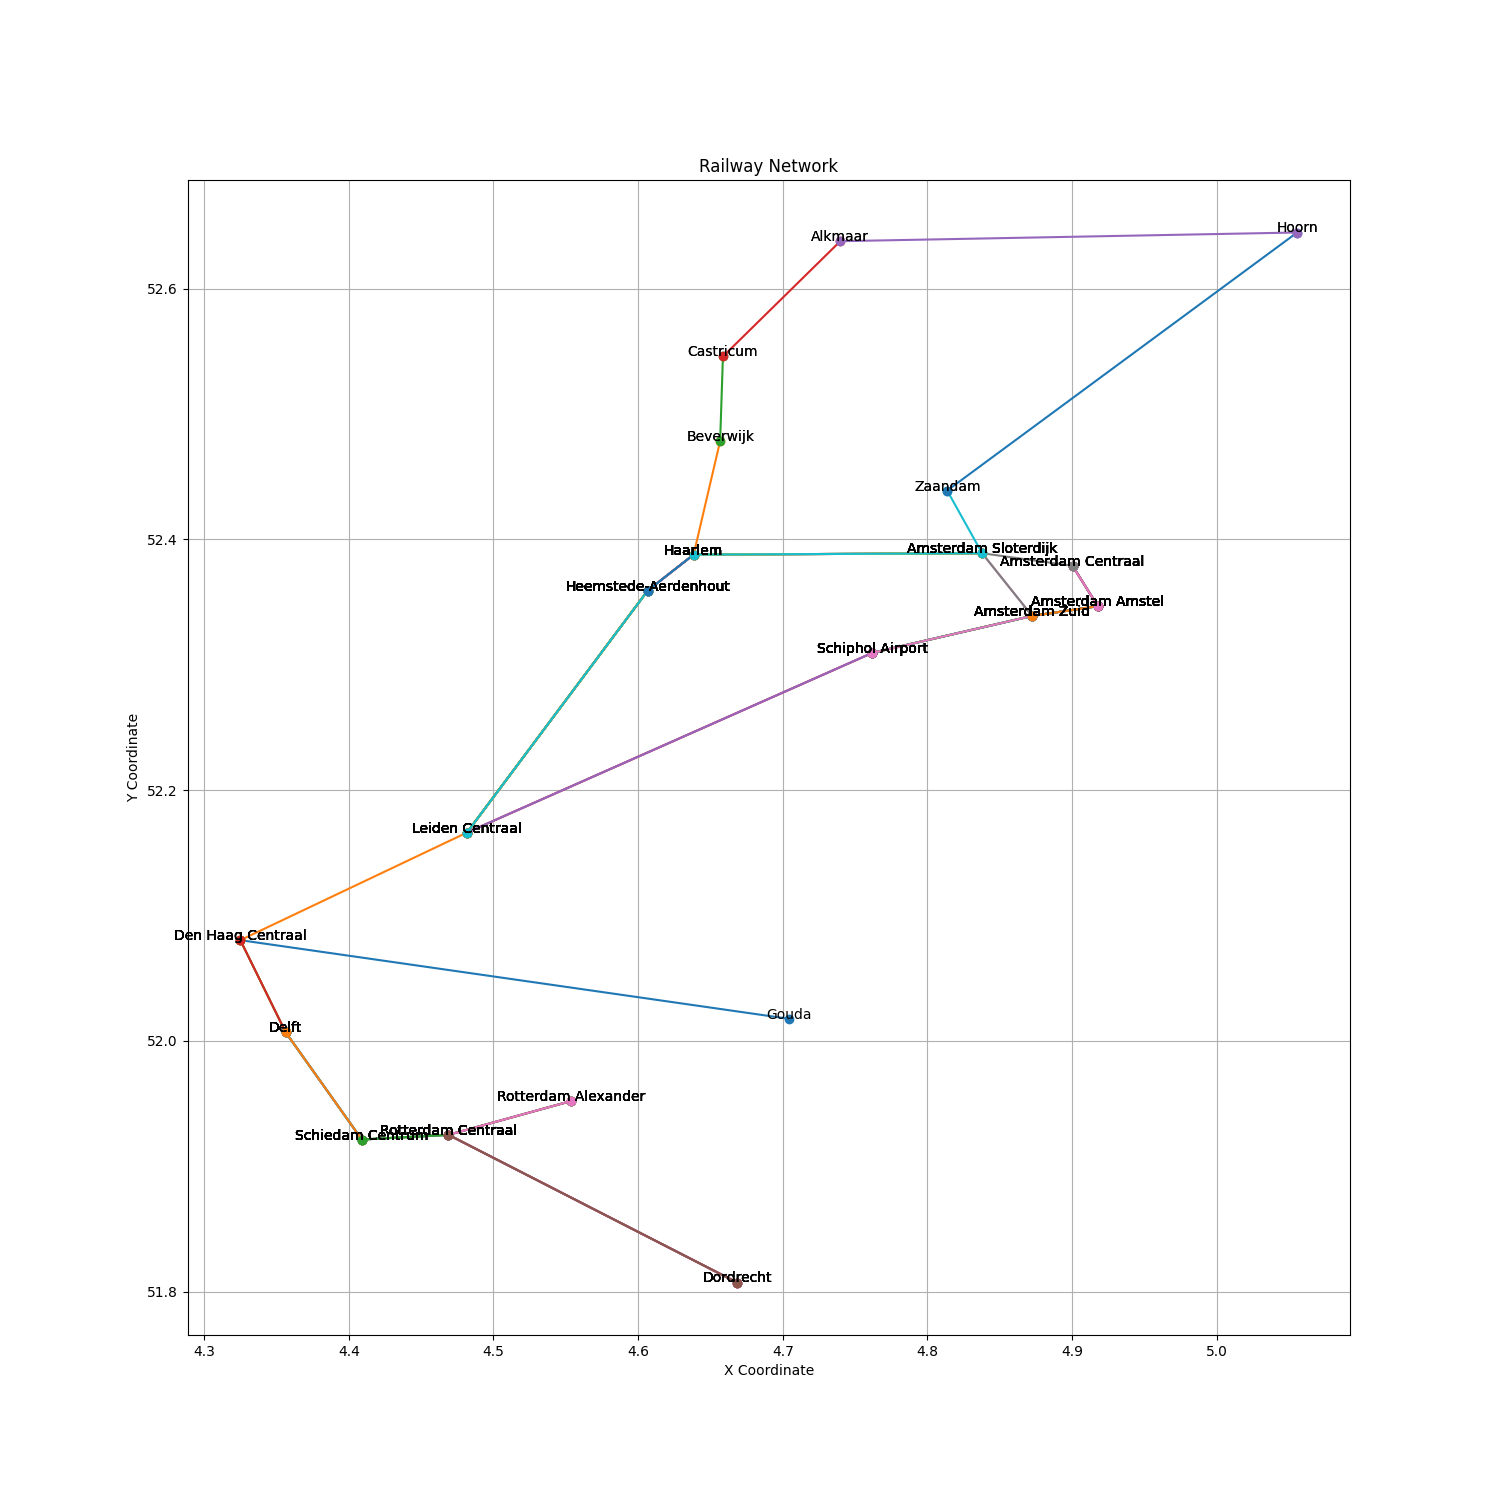
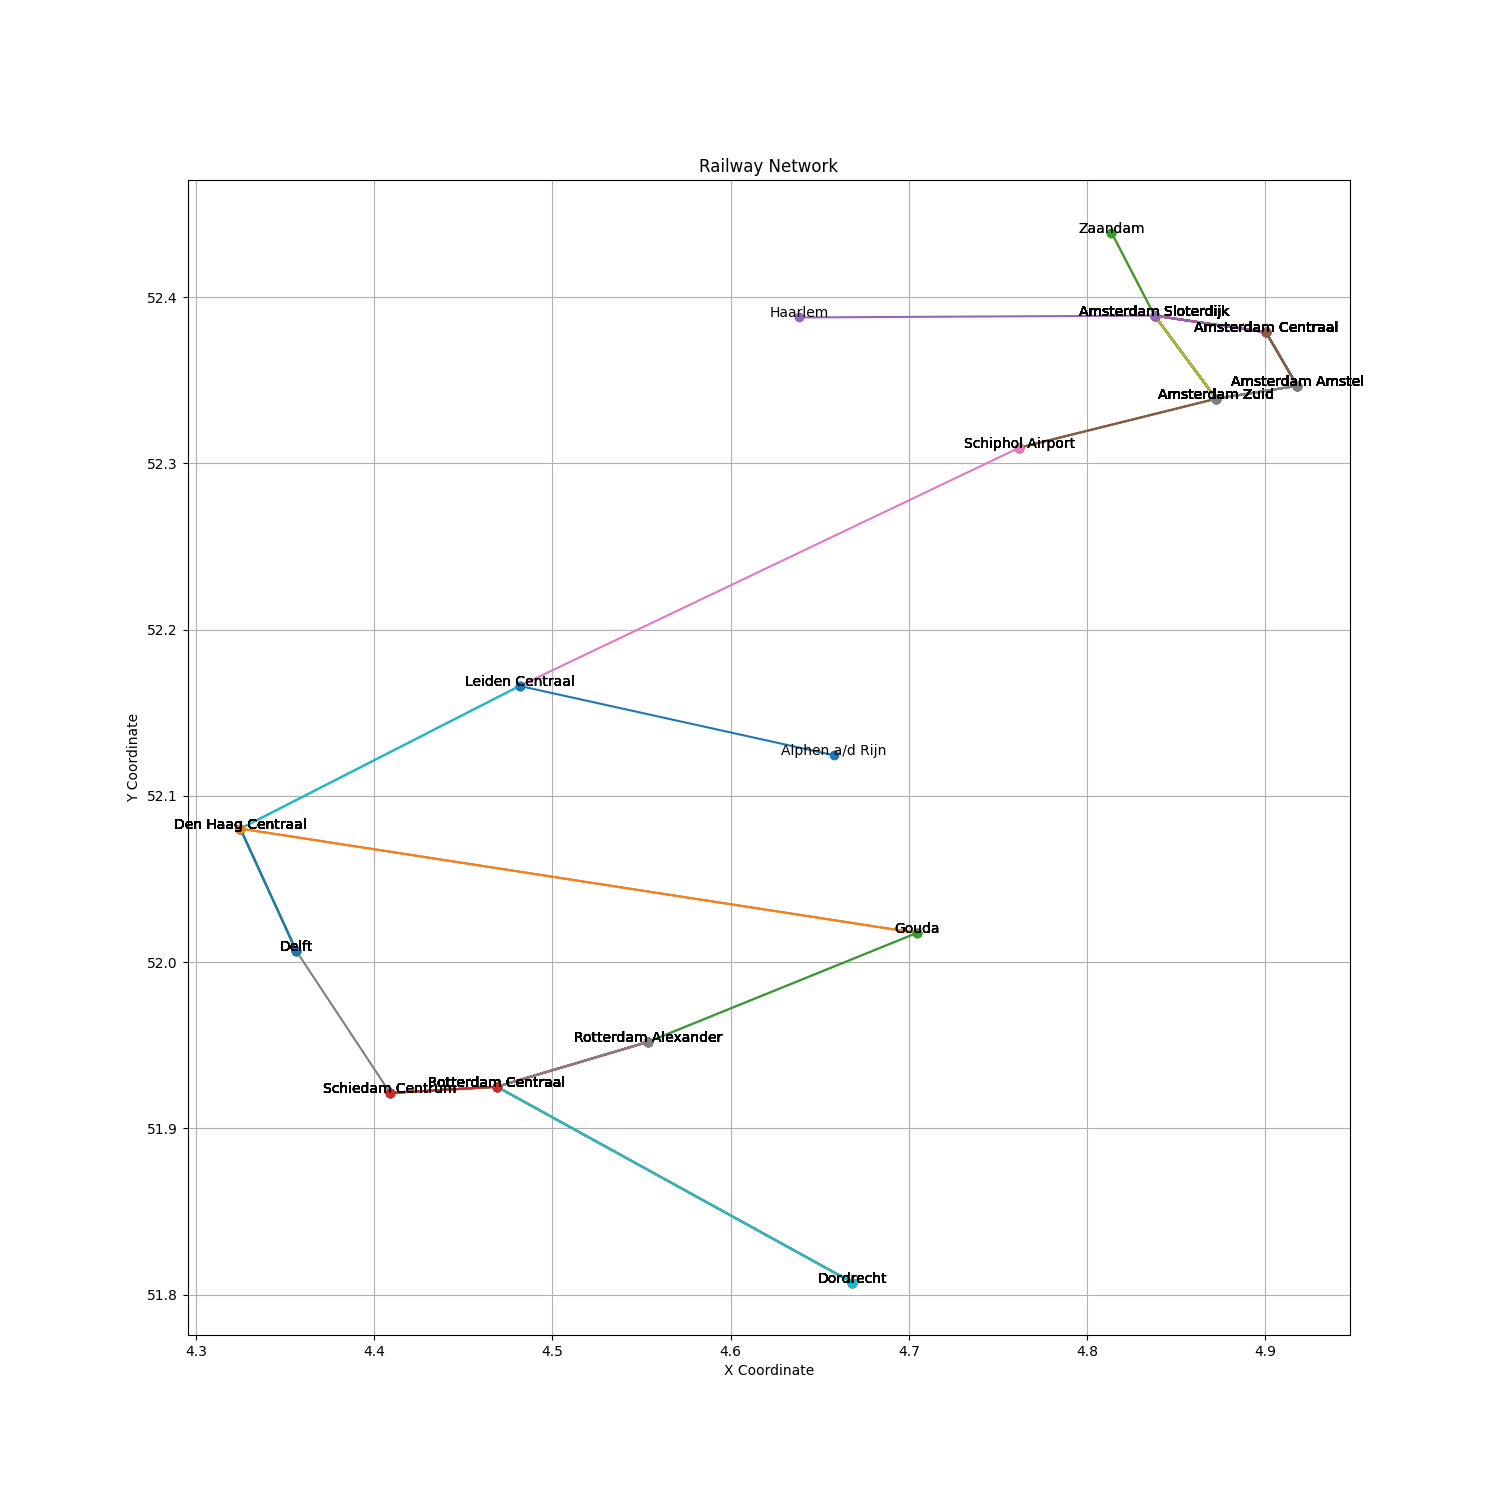
classes random en score geimlementeerd

diff --git a/code/algorithm.py b/code/algorithm.py
@@ -12,41 +12,16 @@ class Algorithm:
         self.load = Load_in("Holland")
         self.trajects: list[Any] = []
 
-
-    def random_algorithm(self):
-        for _ in range(7):
-            time_used = 0
-            current_station = random.choice(list(self.load.stations_dictionary().values()))
-            traject = Traject()
-
-            # Break when no connections are left in current station
-            while current_station.has_connections():
-                # Find random connection from current_station
-                connection = random.choice(list(current_station.connecting_stations()))
-
-                # Calculate new total duration of route
-                duration = int(current_station.connection_duration(connection))
-                total = time_used + duration
-
-                # Continue if connection is possible considering time_used
-                if total <= 120:
-                    time_used = total
-                    traject.add(current_station, connection, duration)
-                    current_station = connection
-
-                # Else consider traject finished
-                else:
-                    break
-
-            print(traject.connections_used)
-            self.trajects.append(traject)
+    
+    def run(self):
+        raise NotImplementedError("Subclasses should implement this!")
 
 
     def make_picture(self):
-        self.random_algorithm()
+        self.run()
         plt.figure(figsize=(15, 15))
-        for tra in self.trajects:
-            for connection in tra.connections_used:
+        for traject in self.trajects:
+            for connection in traject.connections_used:
                 x_values = [self.load.stations[connection[0]].long, self.load.stations[connection[1]].long]
                 y_values = [self.load.stations[connection[0]].lat, self.load.stations[connection[1]].lat]
                 plt.plot(x_values, y_values, marker='o', linestyle='-')
@@ -60,27 +35,6 @@ class Algorithm:
         plt.savefig('railway_network.png')
         plt.close()
 
-    def calculate_K(self) -> int:
-        T = 0
-        Min = 0
-        total_connections_used = set()
 
-        for tra in self.trajects:
-            Min += tra.time
-            for con in tra.connections_used:
-                # Ensure that each connection is a tuple
-                total_connections_used.add(tuple(con))
-            if tra.time != 0:
-                T += 1
-
-        tot_connections_available = set(self.load.connections)
-        p = len(total_connections_used) / len(tot_connections_available)
-        K = p * 10000 - (T * 100 + Min)
-        return K
-
-
-algorithm = Algorithm()
-algorithm.make_picture()
-print(algorithm.calculate_K())
 
 

diff --git a/code/score.py b/code/score.py
@@ -1,9 +1,9 @@
 from random_algorithm import RandomAlgorithm
 
 class Score:
-    def __init__(self) -> None:
-        self.algorithm = Algorithm()
-        self.algorithm.make_trajects()  # Ensure trajects are generated
+    def __init__(self, algorithm: "Algorithm") -> None:
+        self.algorithm = algorithm
+        self.algorithm.run()  # Ensure trajects are generated
         self.Min = 0
         self.T = 0
         self.total_connections_used = set()
@@ -17,12 +17,8 @@ class Score:
             if traject.time != 0:
                 self.T += 1
 
-        tot_connections_available = set(map(tuple, self.algorithm.data.connections))
-        print(tot_connections_available)
+        tot_connections_available = set(map(tuple, self.algorithm.load.connections))
         p = len(self.total_connections_used) / len(tot_connections_available)
         K = p * 10000 - (self.T * 100 + self.Min)
         return K
-
-score = Score()
-print(score.calculate())
 

diff --git a/code/random_algorithm.py b/code/random_algorithm.py
@@ -3,16 +3,14 @@ from load import Load_in
 from traject import Traject
 import random
 
-class RandomAlgorithm:
+class RandomAlgorithm(Algorithm):
     def __init__(self) -> None:
-        self.algorithm = Algorithm()
-        self.trajects = self.algorithm.trajects
-        self.data = Load_in("Holland")
+        super().__init__()
 
-    def make_trajects(self) -> None:
+    def run(self) -> None:
         for _ in range(7):
             time_used = 0
-            current_station = random.choice(list(self.data.stations_dictionary().values()))
+            current_station = random.choice(list(self.load.stations_dictionary().values()))
             traject = Traject()
 
             # Break when no connections are left in current station

diff --git a/code/main.py b/code/main.py
@@ -7,6 +7,7 @@ from our_station import Station
 
 if __name__ == "__main__":
     data = Load_in("Holland")
-    algorithm = Algorithm()
+    algorithm = RandomAlgorithm()
     algorithm.make_picture()
-    algorithm
+    score = Score(algorithm)
+    print(score.calculate())
